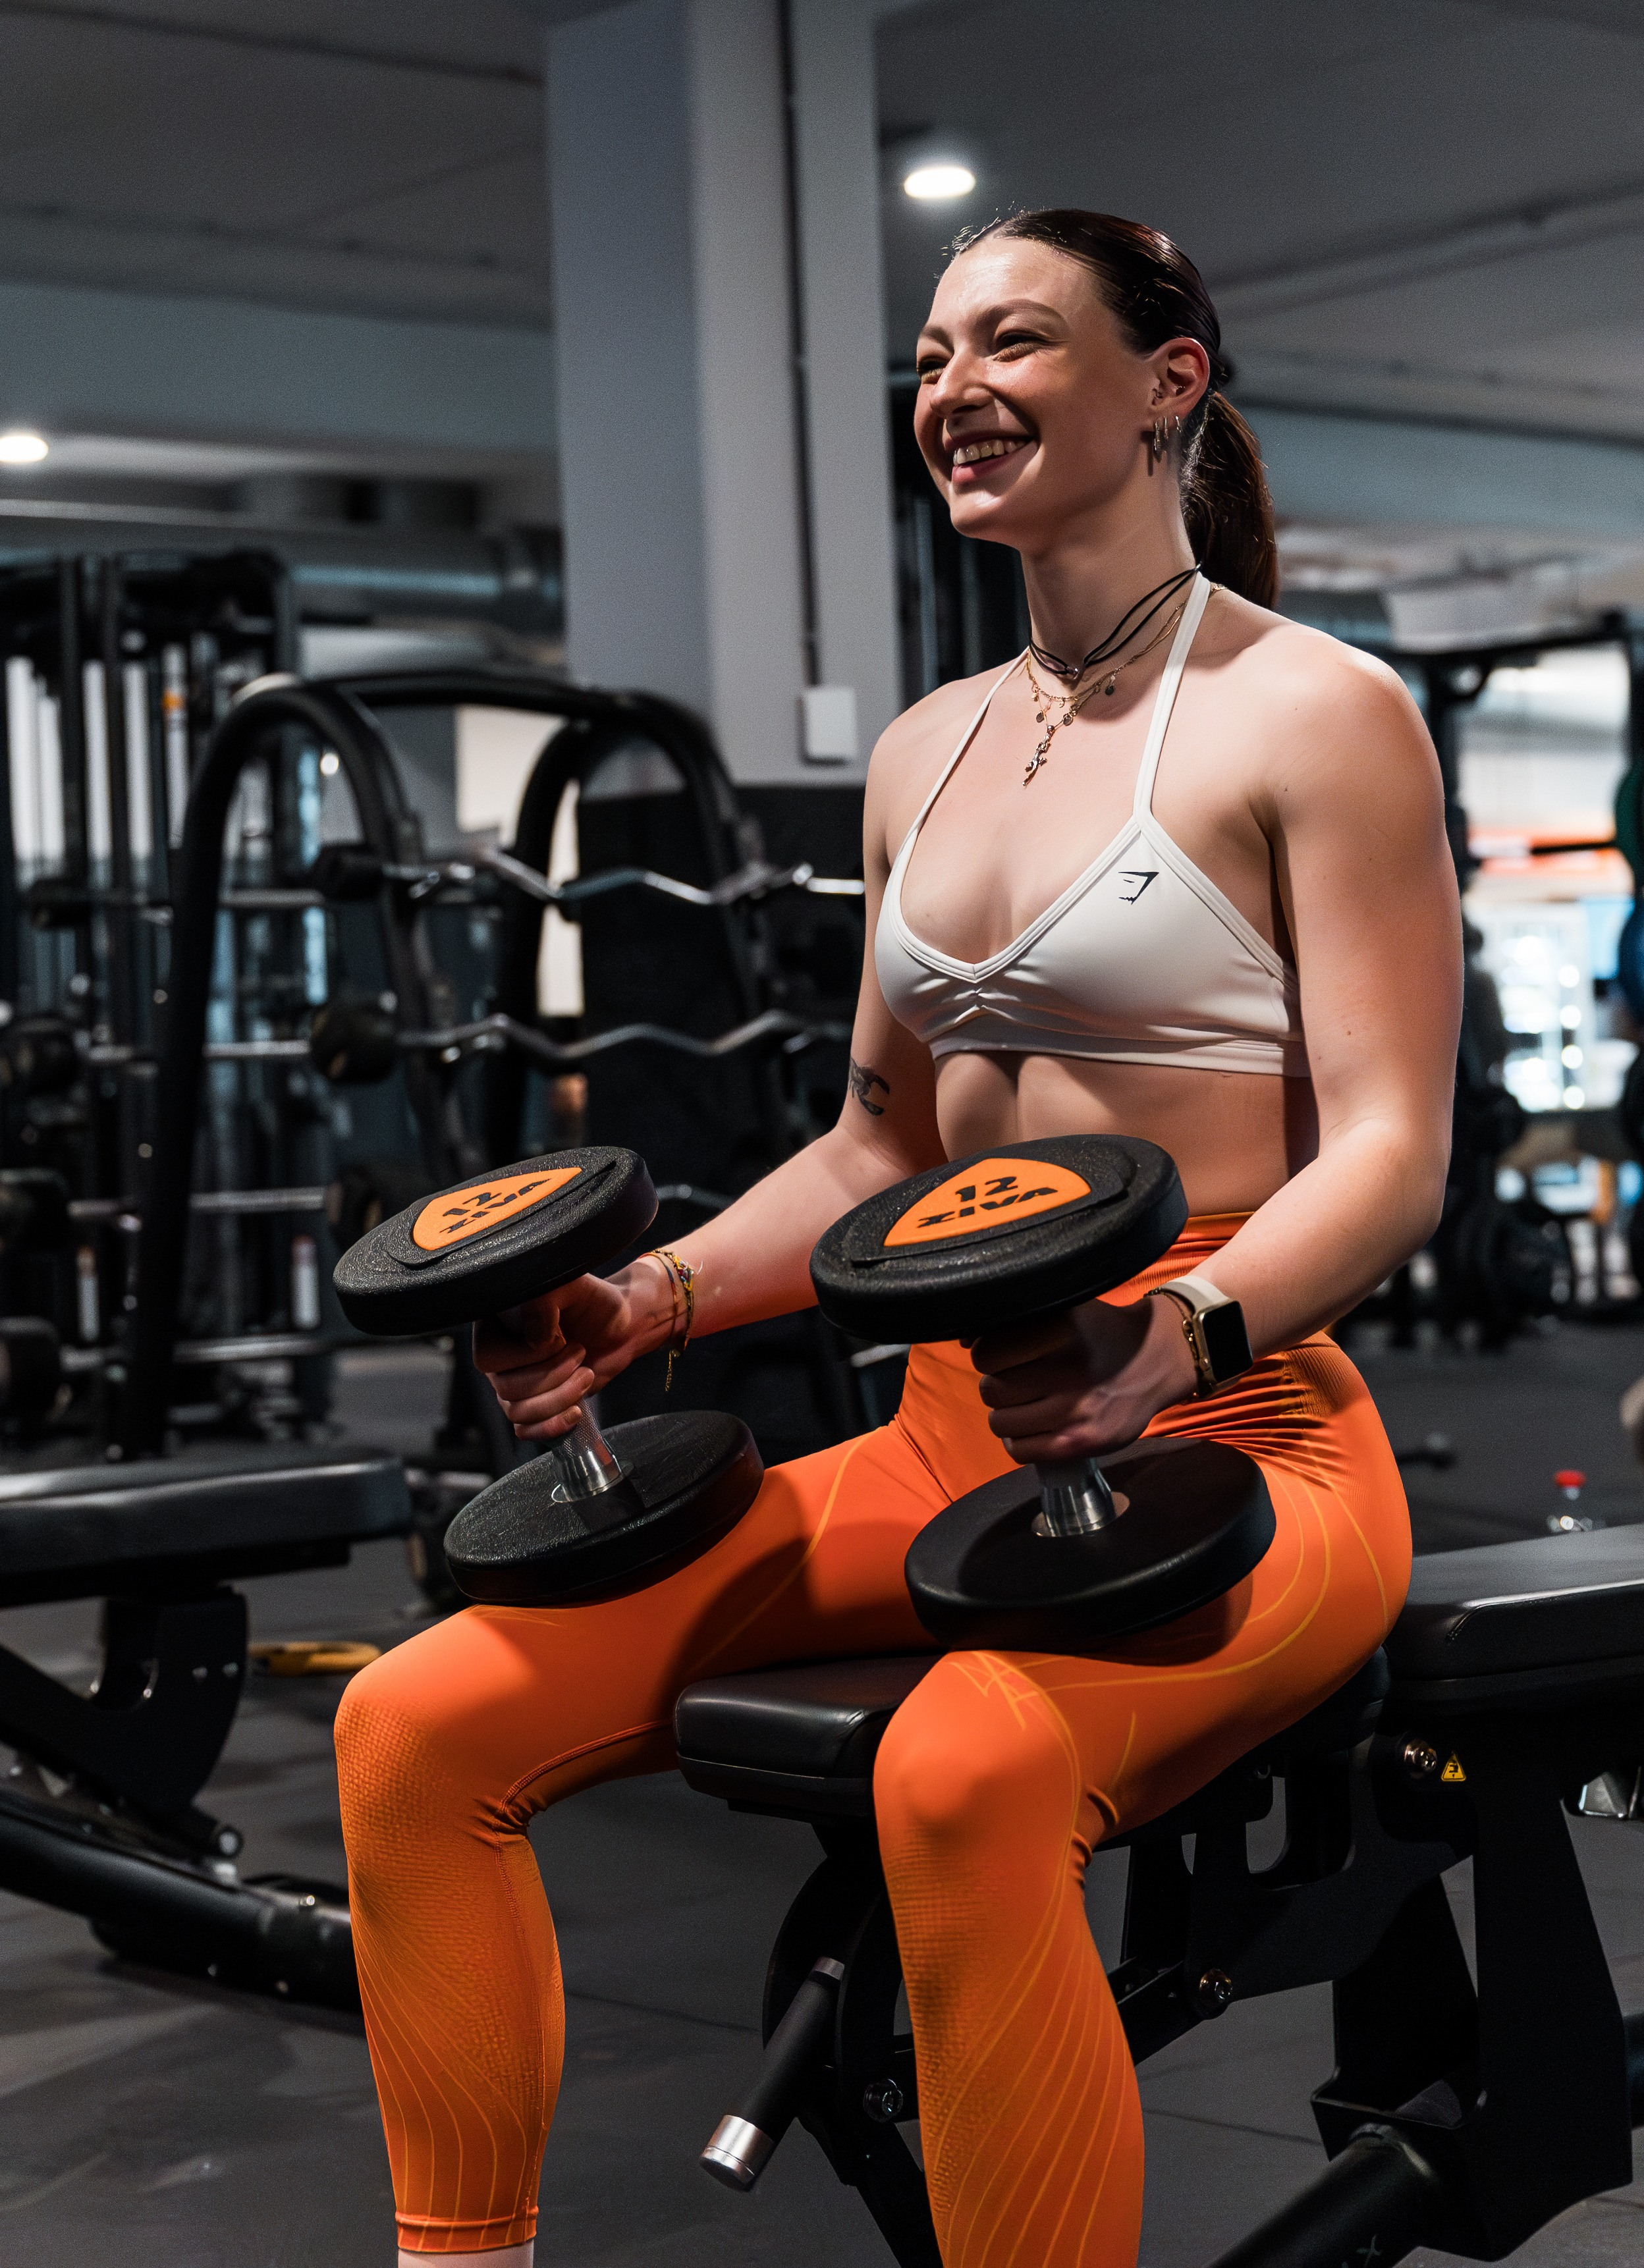
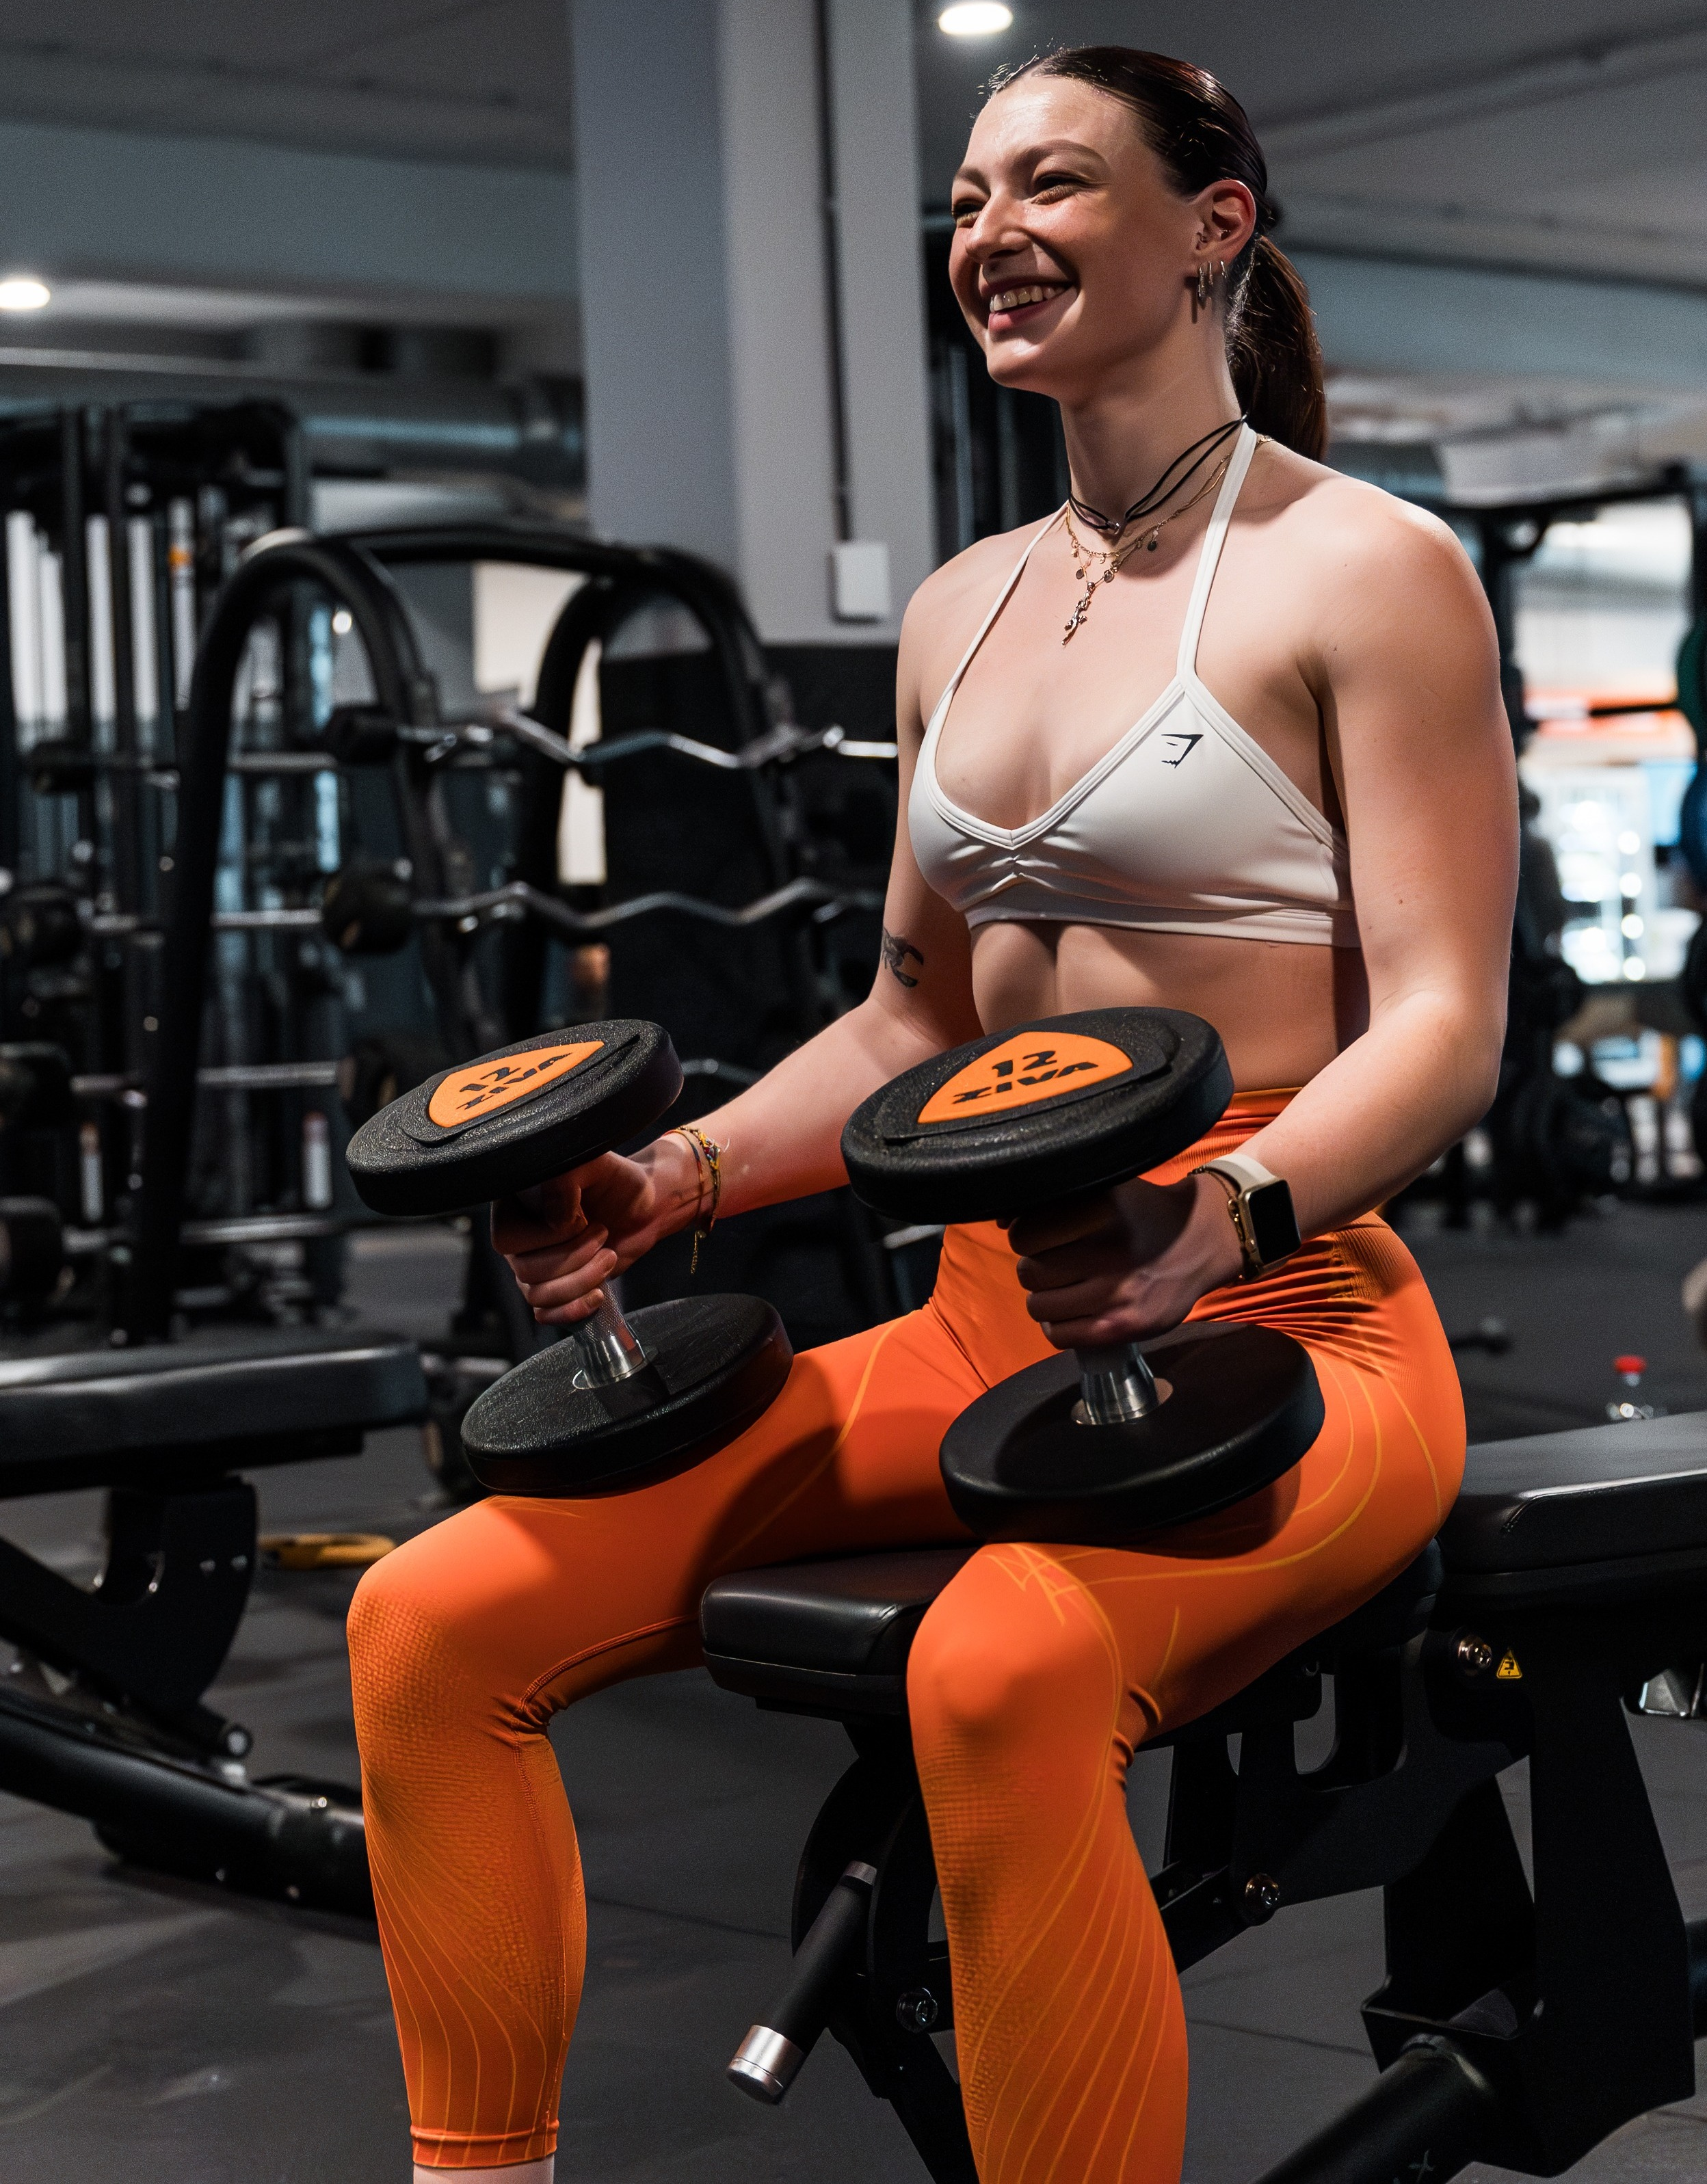
Switch fente/instagram + recadrage haltères + NSAP → Personal Trainer Certifié

diff --git a/index.html b/index.html
@@ -160,7 +160,7 @@
     </a>
     <a href="about.html" class="fade-in" style="background:rgba(255,255,255,0.05); border-radius:20px; padding:2rem; border:1px solid rgba(255,255,255,0.08); text-decoration:none; display:block; transition:border-color 0.2s;" onmouseover="this.style.borderColor='rgba(255,92,26,0.4)'" onmouseout="this.style.borderColor='rgba(255,255,255,0.08)'">
       <div style="font-size:2rem; margin-bottom:1rem;">💪</div>
-      <div style="font-size:0.75rem; font-weight:700; text-transform:uppercase; letter-spacing:0.08em; color:var(--orange); margin-bottom:0.5rem;">Coach Sportif & NSAP</div>
+      <div style="font-size:0.75rem; font-weight:700; text-transform:uppercase; letter-spacing:0.08em; color:var(--orange); margin-bottom:0.5rem;">Personal Trainer Certifié</div>
       <div style="font-weight:700; color:var(--white); font-size:1rem; margin-bottom:0.5rem;">Personal Trainer Certifié</div>
       <div style="color:rgba(255,255,255,0.5); font-size:0.85rem;">Spécialiste remise en forme, perte de poids, construction musculaire et coaching à domicile.</div>
       <div style="margin-top:0.8rem; font-size:0.78rem; color:var(--orange); font-weight:600;">En savoir plus →</div>
@@ -186,9 +186,6 @@
     <div style="overflow:hidden;">
       <img src="img/lucie-bench.jpg" alt="Lucie bench" style="width:100%;height:100%;object-fit:cover;object-position:top;transition:transform 0.4s;" onmouseover="this.style.transform='scale(1.04)'" onmouseout="this.style.transform='scale(1)'" />
     </div>
-    <div style="overflow:hidden;">
-      <img src="img/lucie-fente.jpg" alt="Lucie fente" style="width:100%;height:100%;object-fit:cover;object-position:center 25%;transition:transform 0.4s;" onmouseover="this.style.transform='scale(1.04)'" onmouseout="this.style.transform='scale(1)'" />
-    </div>
     <div style="overflow:hidden; position:relative;">
       <img src="img/lucie-gym.jpg" alt="Lucie gym" style="width:100%;height:100%;object-fit:cover;object-position:top;transition:transform 0.4s;" onmouseover="this.style.transform='scale(1.04)'" onmouseout="this.style.transform='scale(1)'" />
       <div style="position:absolute;inset:0;background:rgba(0,0,0,0.45);display:flex;align-items:center;justify-content:center;">
@@ -196,6 +193,9 @@
           📸 @lucie.coach<br/><span style="font-size:0.75rem;opacity:0.8;font-weight:400;">Voir sur Instagram</span>
         </a>
       </div>
+    </div>
+    <div style="overflow:hidden;">
+      <img src="img/lucie-fente.jpg" alt="Lucie fente" style="width:100%;height:100%;object-fit:cover;object-position:center 25%;transition:transform 0.4s;" onmouseover="this.style.transform='scale(1.04)'" onmouseout="this.style.transform='scale(1)'" />
     </div>
   </div>
 </section>